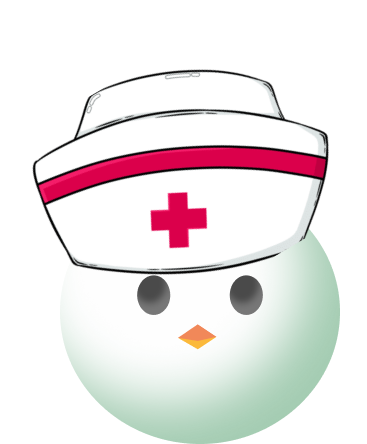
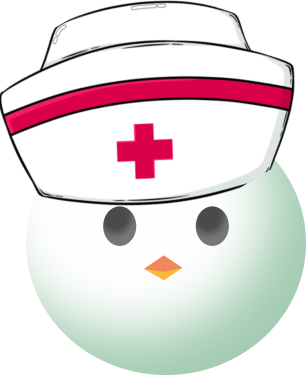
reworked pages css

diff --git a/volunteer-app/src/StudentLandingPage.js b/volunteer-app/src/StudentLandingPage.js
@@ -47,7 +47,6 @@ const StudentLandingPage = ({ navigation }) => {
       // Validate that storedId is a valid 24-character hex string
       if (storedId && /^[0-9a-fA-F]{24}$/.test(storedId)) {
         setId(storedId);
-        getAvatar();    
       } else {
         console.error('Invalid ID format:', storedId);
         Alert.alert('Error', 'Invalid user ID format. Please log in  again.');
@@ -57,10 +56,6 @@ const StudentLandingPage = ({ navigation }) => {
       Alert.alert('Error', 'Failed to initialize user data.');
     }
   };
-
-  useEffect(() => {
-    initializeUserData();
-  }, [])
 
   // ON BACK BUTTON
   useFocusEffect(
@@ -77,6 +72,8 @@ const StudentLandingPage = ({ navigation }) => {
       getProgress();
     }
   }, [id]);
+
+  useEffect
 
   const getProgress = async () => {
     try {
@@ -159,12 +156,12 @@ const StudentLandingPage = ({ navigation }) => {
         <Text style={styles.gearText}>⚙</Text>
       </TouchableOpacity>
 
-      <SafeAreaView style={styles.centeredImageContainer} onPress={() => navigation.navigate('AvatarSelection')}>
+      <TouchableOpacity style={styles.centeredImageContainer} onPress={() => navigation.navigate('AvatarSelection')}>
         <Image
           source={avatarDictionary[currAvatar]} // Update this path to the location of your image file
           style={styles.playerChar}
         />
-      </SafeAreaView>
+      </TouchableOpacity>
       
       <Text style={styles.greeting}>Welcome back, {username} </Text>
 
@@ -186,9 +183,9 @@ const StudentLandingPage = ({ navigation }) => {
           <Text style={styles.optionButtonText}>Check your awards</Text>
         </TouchableOpacity>
 
-        <TouchableOpacity style={styles.optionButton} onPress={() => logOut()}>
+        {/* <TouchableOpacity style={styles.optionButton} onPress={() => logOut()}>
           <Text style={styles.optionButtonText}>Log out</Text>
-        </TouchableOpacity>
+        </TouchableOpacity> */}
       </View> 
       
       <ProgressBar progress={progress.points / progress.maxPoints} style={styles.progressBarStyle} color={"#FA7F35"} visible={true} />
@@ -227,11 +224,13 @@ const styles = StyleSheet.create({
     flex: 1, // Make the container fill the available space
     justifyContent: 'center', // Center items vertically
     alignItems: 'center', // Center items horizontally
-    marginBottom: 75
+    marginBottom: 75,
+    marginTop: 60
   },
   playerChar: {
-    width: 100,
-    height: 100
+    width: 85,
+    height: 85,
+    resizeMode: 'contain'
   },
   leaderboardIconStyle: {
     width: 30,

diff --git a/volunteer-app/src/AvatarSelection.js b/volunteer-app/src/AvatarSelection.js
@@ -257,11 +257,13 @@ const styles = StyleSheet.create({
     flex: 1, // Make the container fill the available space
     justifyContent: 'center', // Center items vertically
     alignItems: 'center', // Center items horizontally
-    marginBottom: 75
+    marginBottom: 75,
+    marginTop: 20
   },
   playerChar: {
-    width: 100,
-    height: 100
+    width: 85,
+    height: 85,
+    resizeMode: 'contain'
   },
   leaderboardIconStyle: {
     width: 30,
@@ -328,7 +330,7 @@ const styles = StyleSheet.create({
   },
   progressBarStyle: {
     marginTop: 100,
-    marginLeft: 150,
+    marginLeft: 75,
     bottom: 20,
     height: 50, 
     width: 200,
